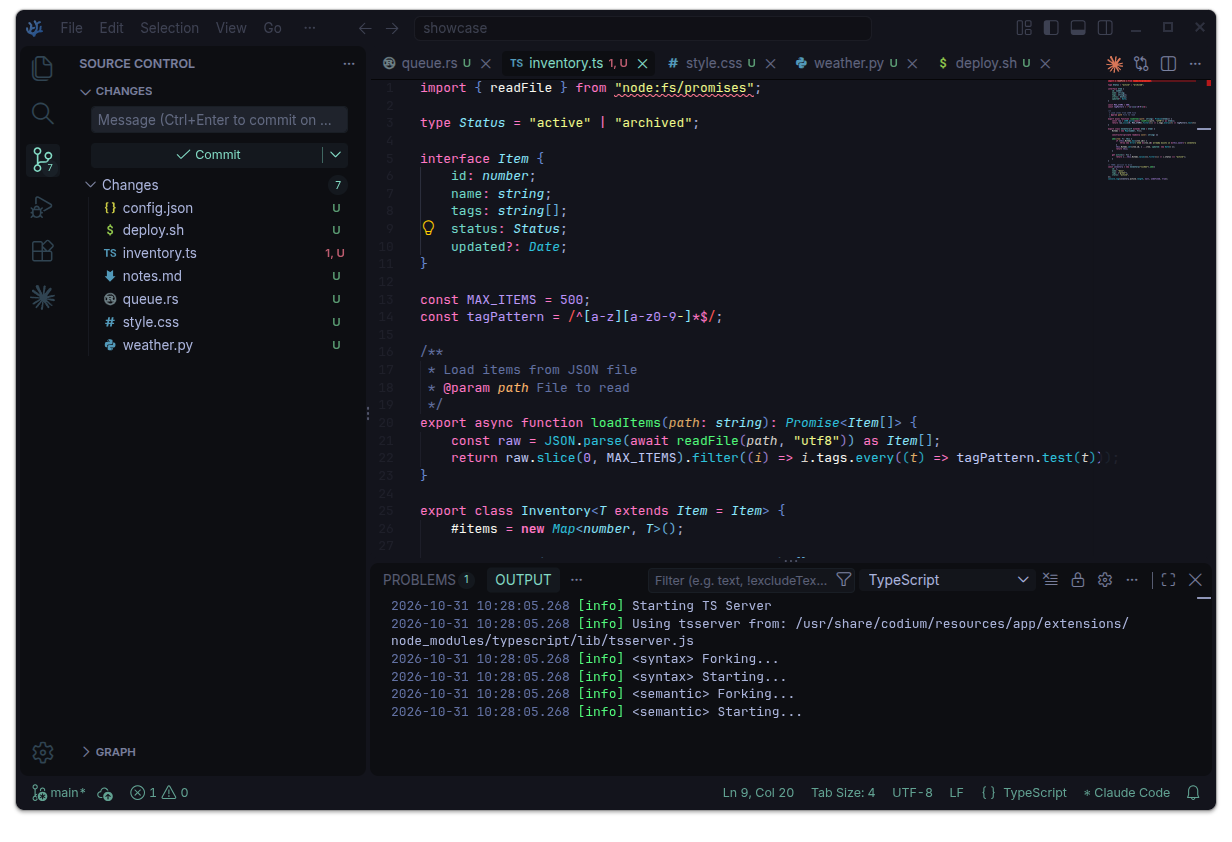
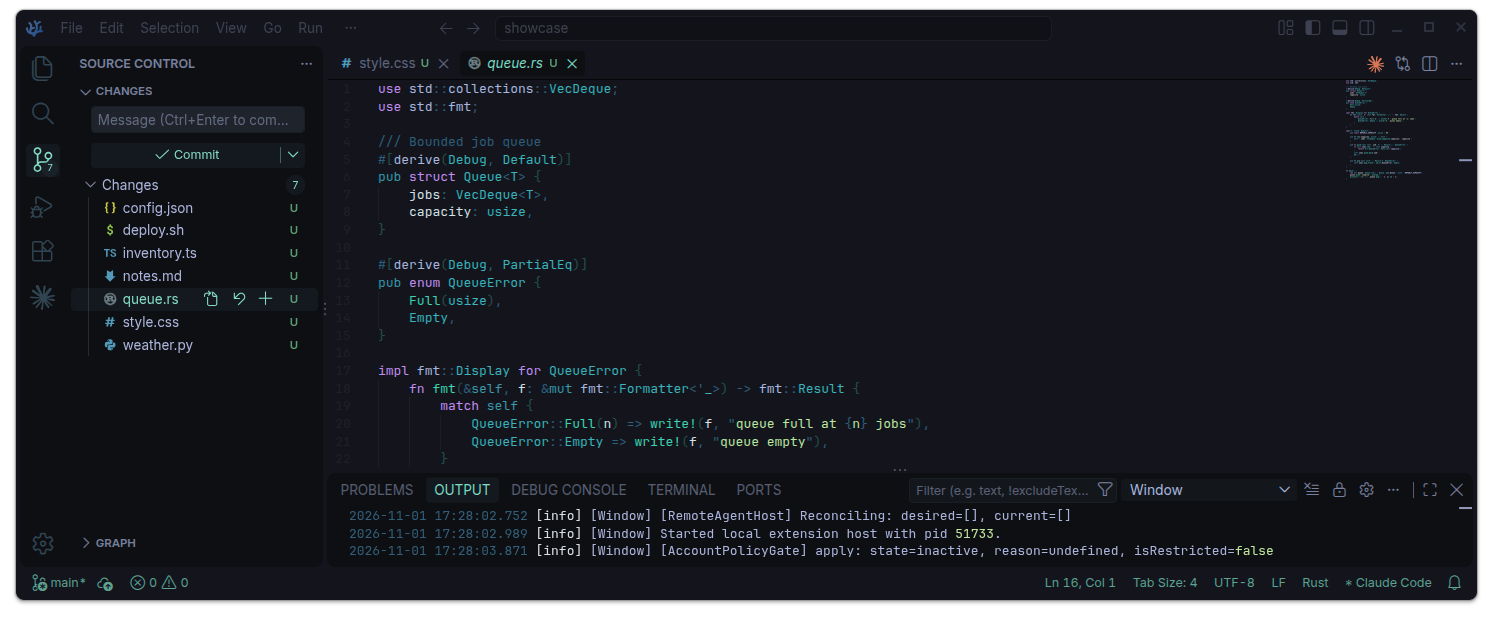
Update screenshots

diff --git a/README.md b/README.md
@@ -2,9 +2,11 @@
 
 <p align="center">Lichen greens on dark. Less chaos.</p>
 
-![Source control and output panel](assets/screenshot_1.png)
+![Lichen VS Code theme editor screenshot #1](assets/screenshot_1.png)
 
-![Explorer and problems panel](assets/screenshot_2.png)
+![Lichen VS Code theme editor screenshot #2](assets/screenshot_2.png)
+
+![Lichen VS Code theme editor screenshot #3](assets/screenshot_3.png)
 
 ## Usage
 
